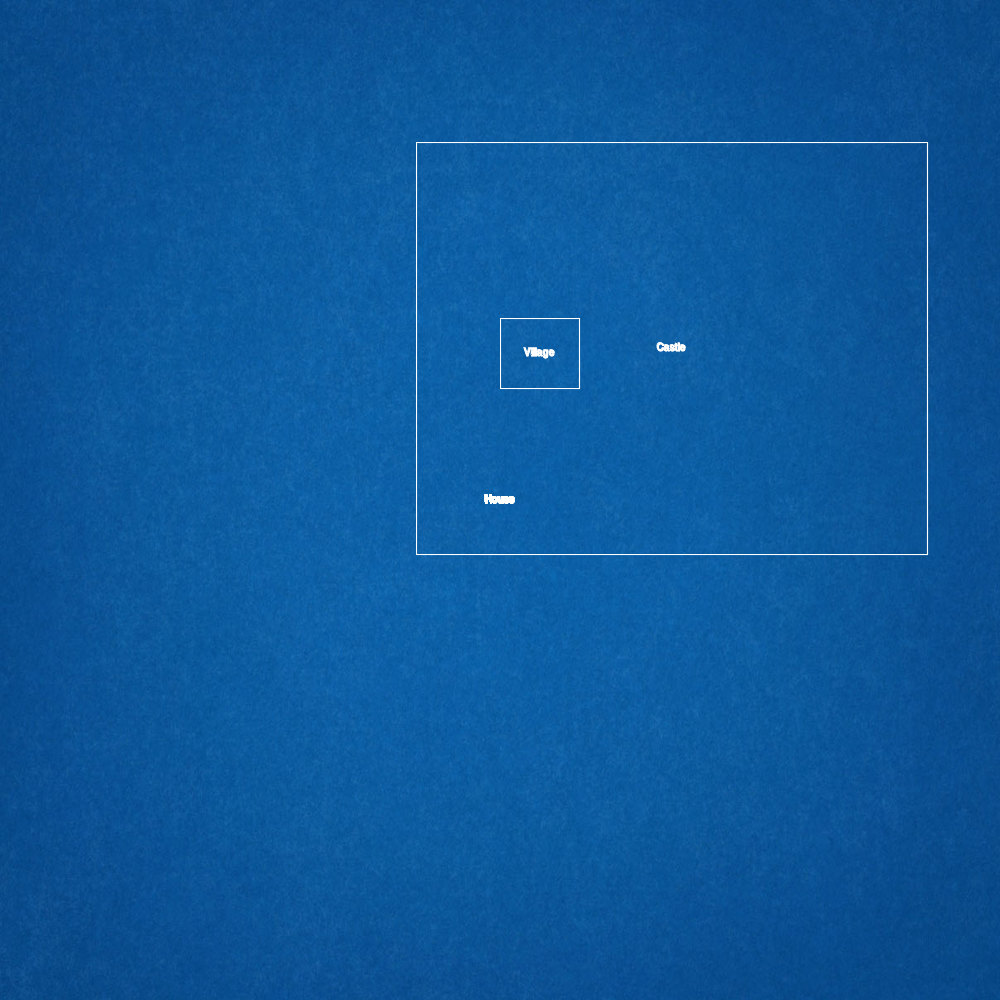
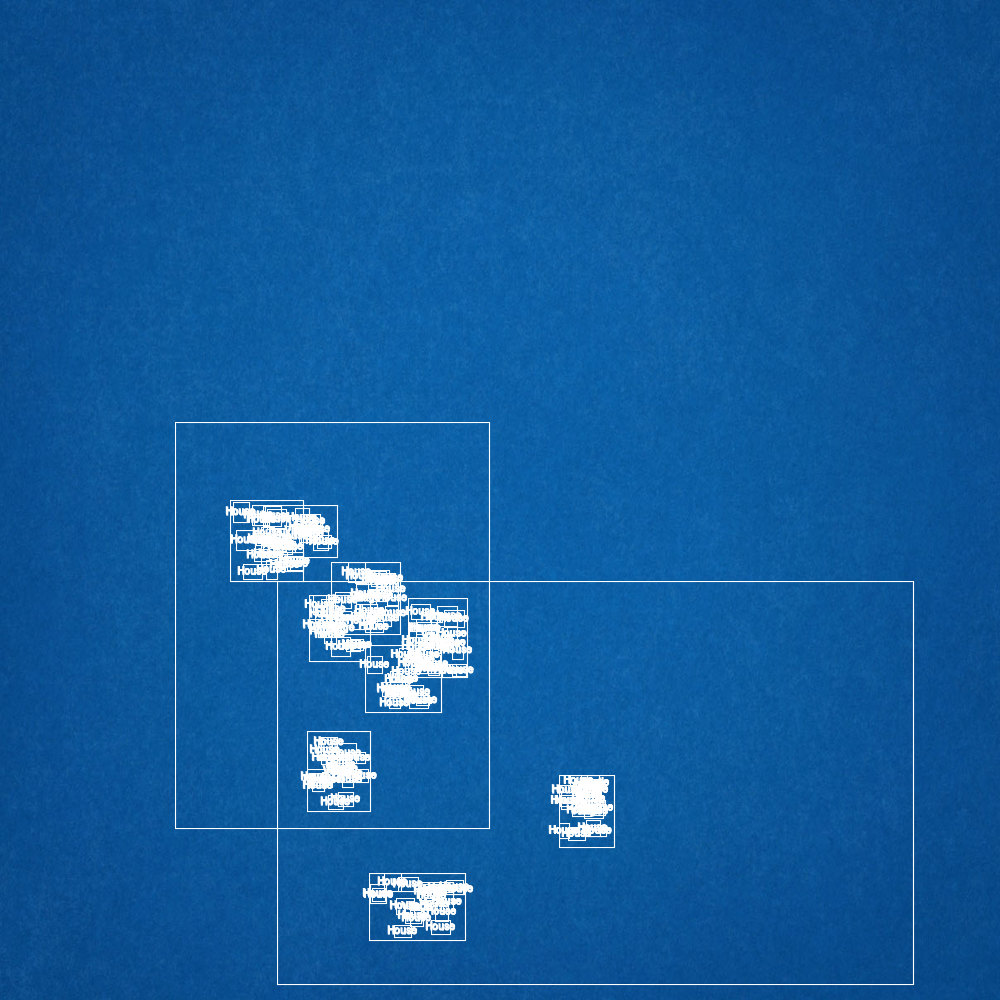
how to fail at json

diff --git a/index.js b/index.js
@@ -26,8 +26,8 @@ var features = [ // list of building groups
         "ammount": new Ammount(1,5),
         "subgroups": [
           {
-            "name": "House", // third subgroup layer has graphical trouble caused by Y2 position being NAN
-            "size": new Size(10,20),
+            "name": "House", // how to fail json
+            "size": new Size(10,20,10,20),
             "ammount": new Ammount(10,20),
             "subgroups": []
           }
@@ -43,7 +43,7 @@ function log(){
   // TODO uncomment the line below to enable logging to console (too lazy to add --verbose)
   //console.log.apply(undefined,arguments)
 }
-function generateSubgroup(bg,arr,w,h){ // Generate a group of building, for example the main castle or villages
+function generateSubgroup(bg,arr,w,h){ // Generate a group of buildings, for example the main castle or villages
   log("Generating Subgroup ", bg);
   bg.forEach(function(building){
     var ammount = building.ammount.get();
@@ -159,7 +159,7 @@ function drawCastle(data,origx,origy){
 generateSubgroup(features,rooms,1000,1000);
 
 
-log(JSON.stringify(rooms));
+//console.log(JSON.stringify(rooms));
 drawCastle(rooms,0,0);
 save();
 //log(randi(0,50));
